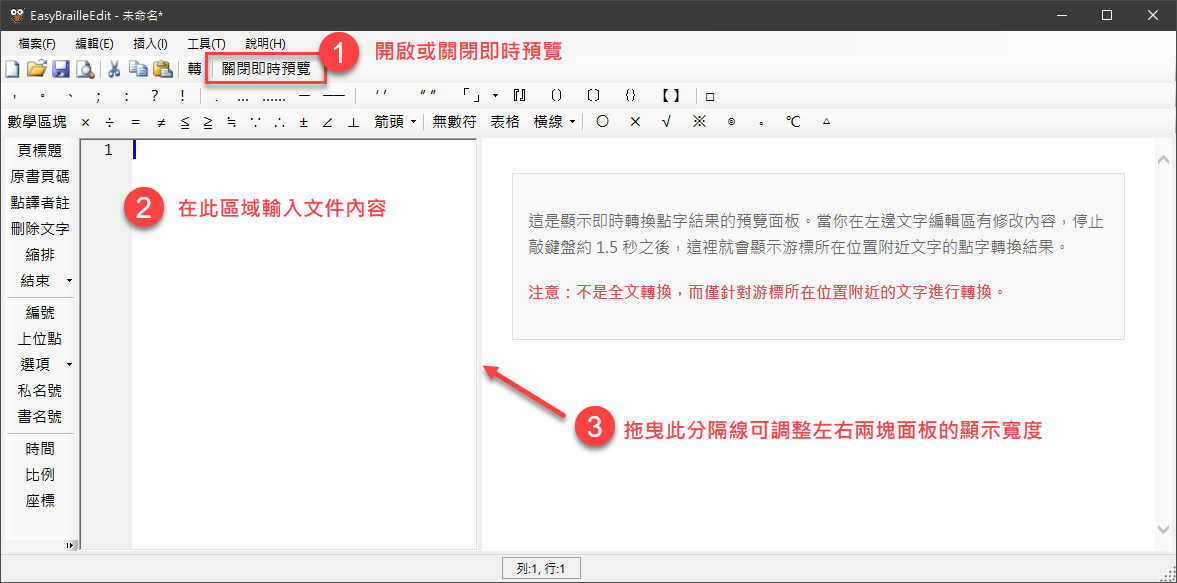
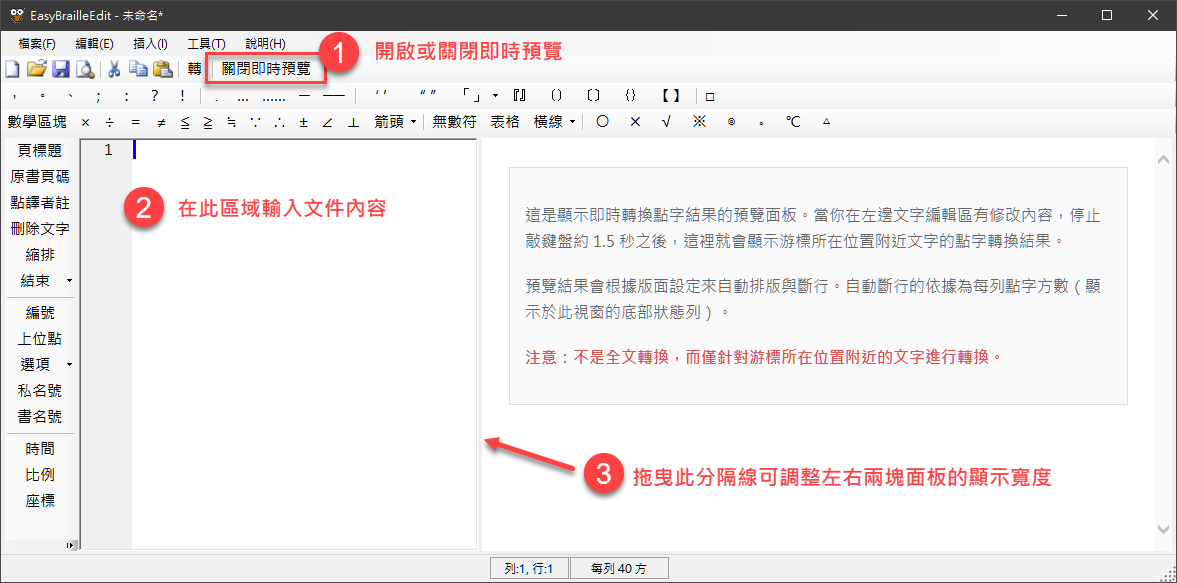
狀態列新增顯示：每列 # 方

diff --git a/Source/EasyBrailleEditApp/EasyBrailleEdit/MainForm.cs b/Source/EasyBrailleEditApp/EasyBrailleEdit/MainForm.cs
@@ -898,6 +898,7 @@ namespace EasyBrailleEdit
             InitTextArea();
 
             StatusText = "";
+            UpdateBrailleSettingsLabel();
 
             NewFile();
 
@@ -1213,6 +1214,15 @@ namespace EasyBrailleEdit
             int line = m_TextArea.CurrentLine;
             int col = m_TextArea.CurrentPosition - m_TextArea.Lines[line].Position;
             statLabelCaretPos.Text = $"列:{line+1}, 行:{col+1}";
+        }
+
+        /// <summary>
+        /// 更新狀態列的點字設定顯示。
+        /// </summary>
+        private void UpdateBrailleSettingsLabel()
+        {
+            int cellsPerLine = AppGlobals.Config.Braille.CellsPerLine;
+            statLabelBrailleSettings.Text = $"每列 {cellsPerLine} 方";
         }
 
         /// <summary>

diff --git a/Source/EasyBrailleEditApp/EasyBrailleEdit/Controls/PreviewPanel.cs b/Source/EasyBrailleEditApp/EasyBrailleEdit/Controls/PreviewPanel.cs
@@ -53,6 +53,7 @@ namespace EasyBrailleEdit.Controls
 <body>
     <div class='info'>
         <p>這是顯示即時轉換點字結果的預覽面板。當你在左邊文字編輯區有修改內容，停止敲鍵盤約 1.5 秒之後，這裡就會顯示游標所在位置附近文字的點字轉換結果。</p>
+        <p>預覽結果會根據版面設定來自動排版與斷行。自動斷行的依據為每列點字方數（顯示於此視窗的底部狀態列）。</p>
         <p class='note'>注意：不是全文轉換，而僅針對游標所在位置附近的文字進行轉換。</p>
     </div>
 </body>
